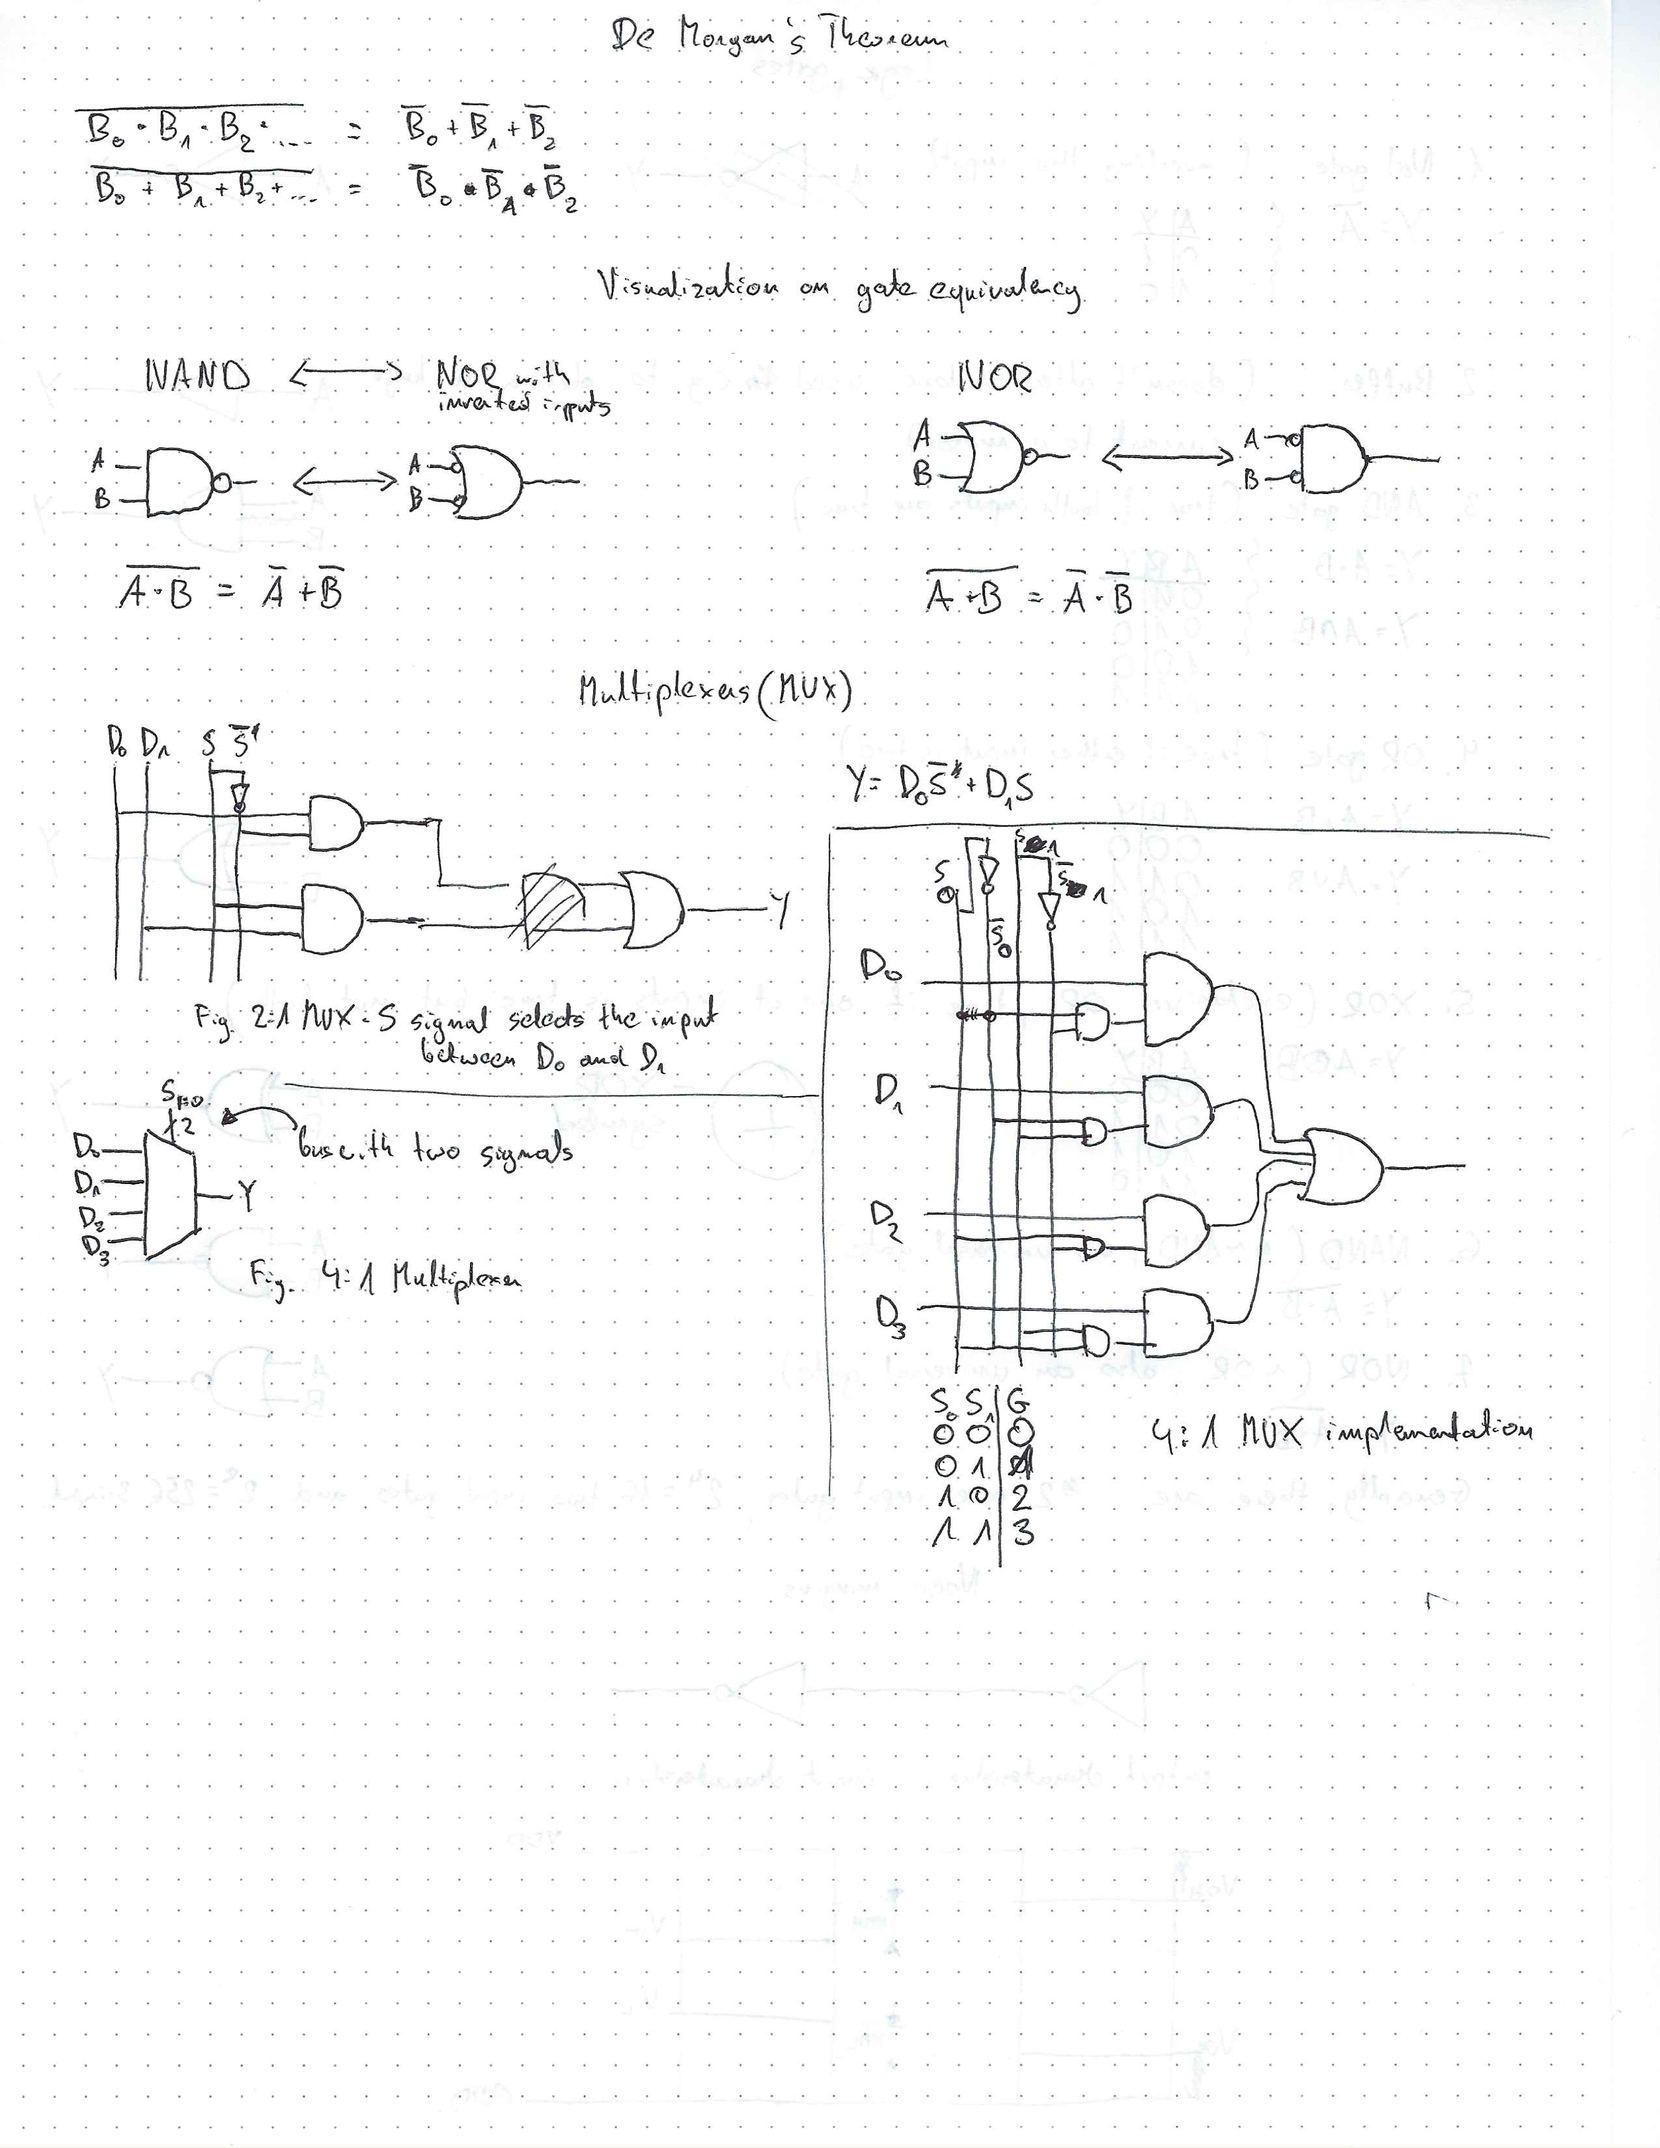
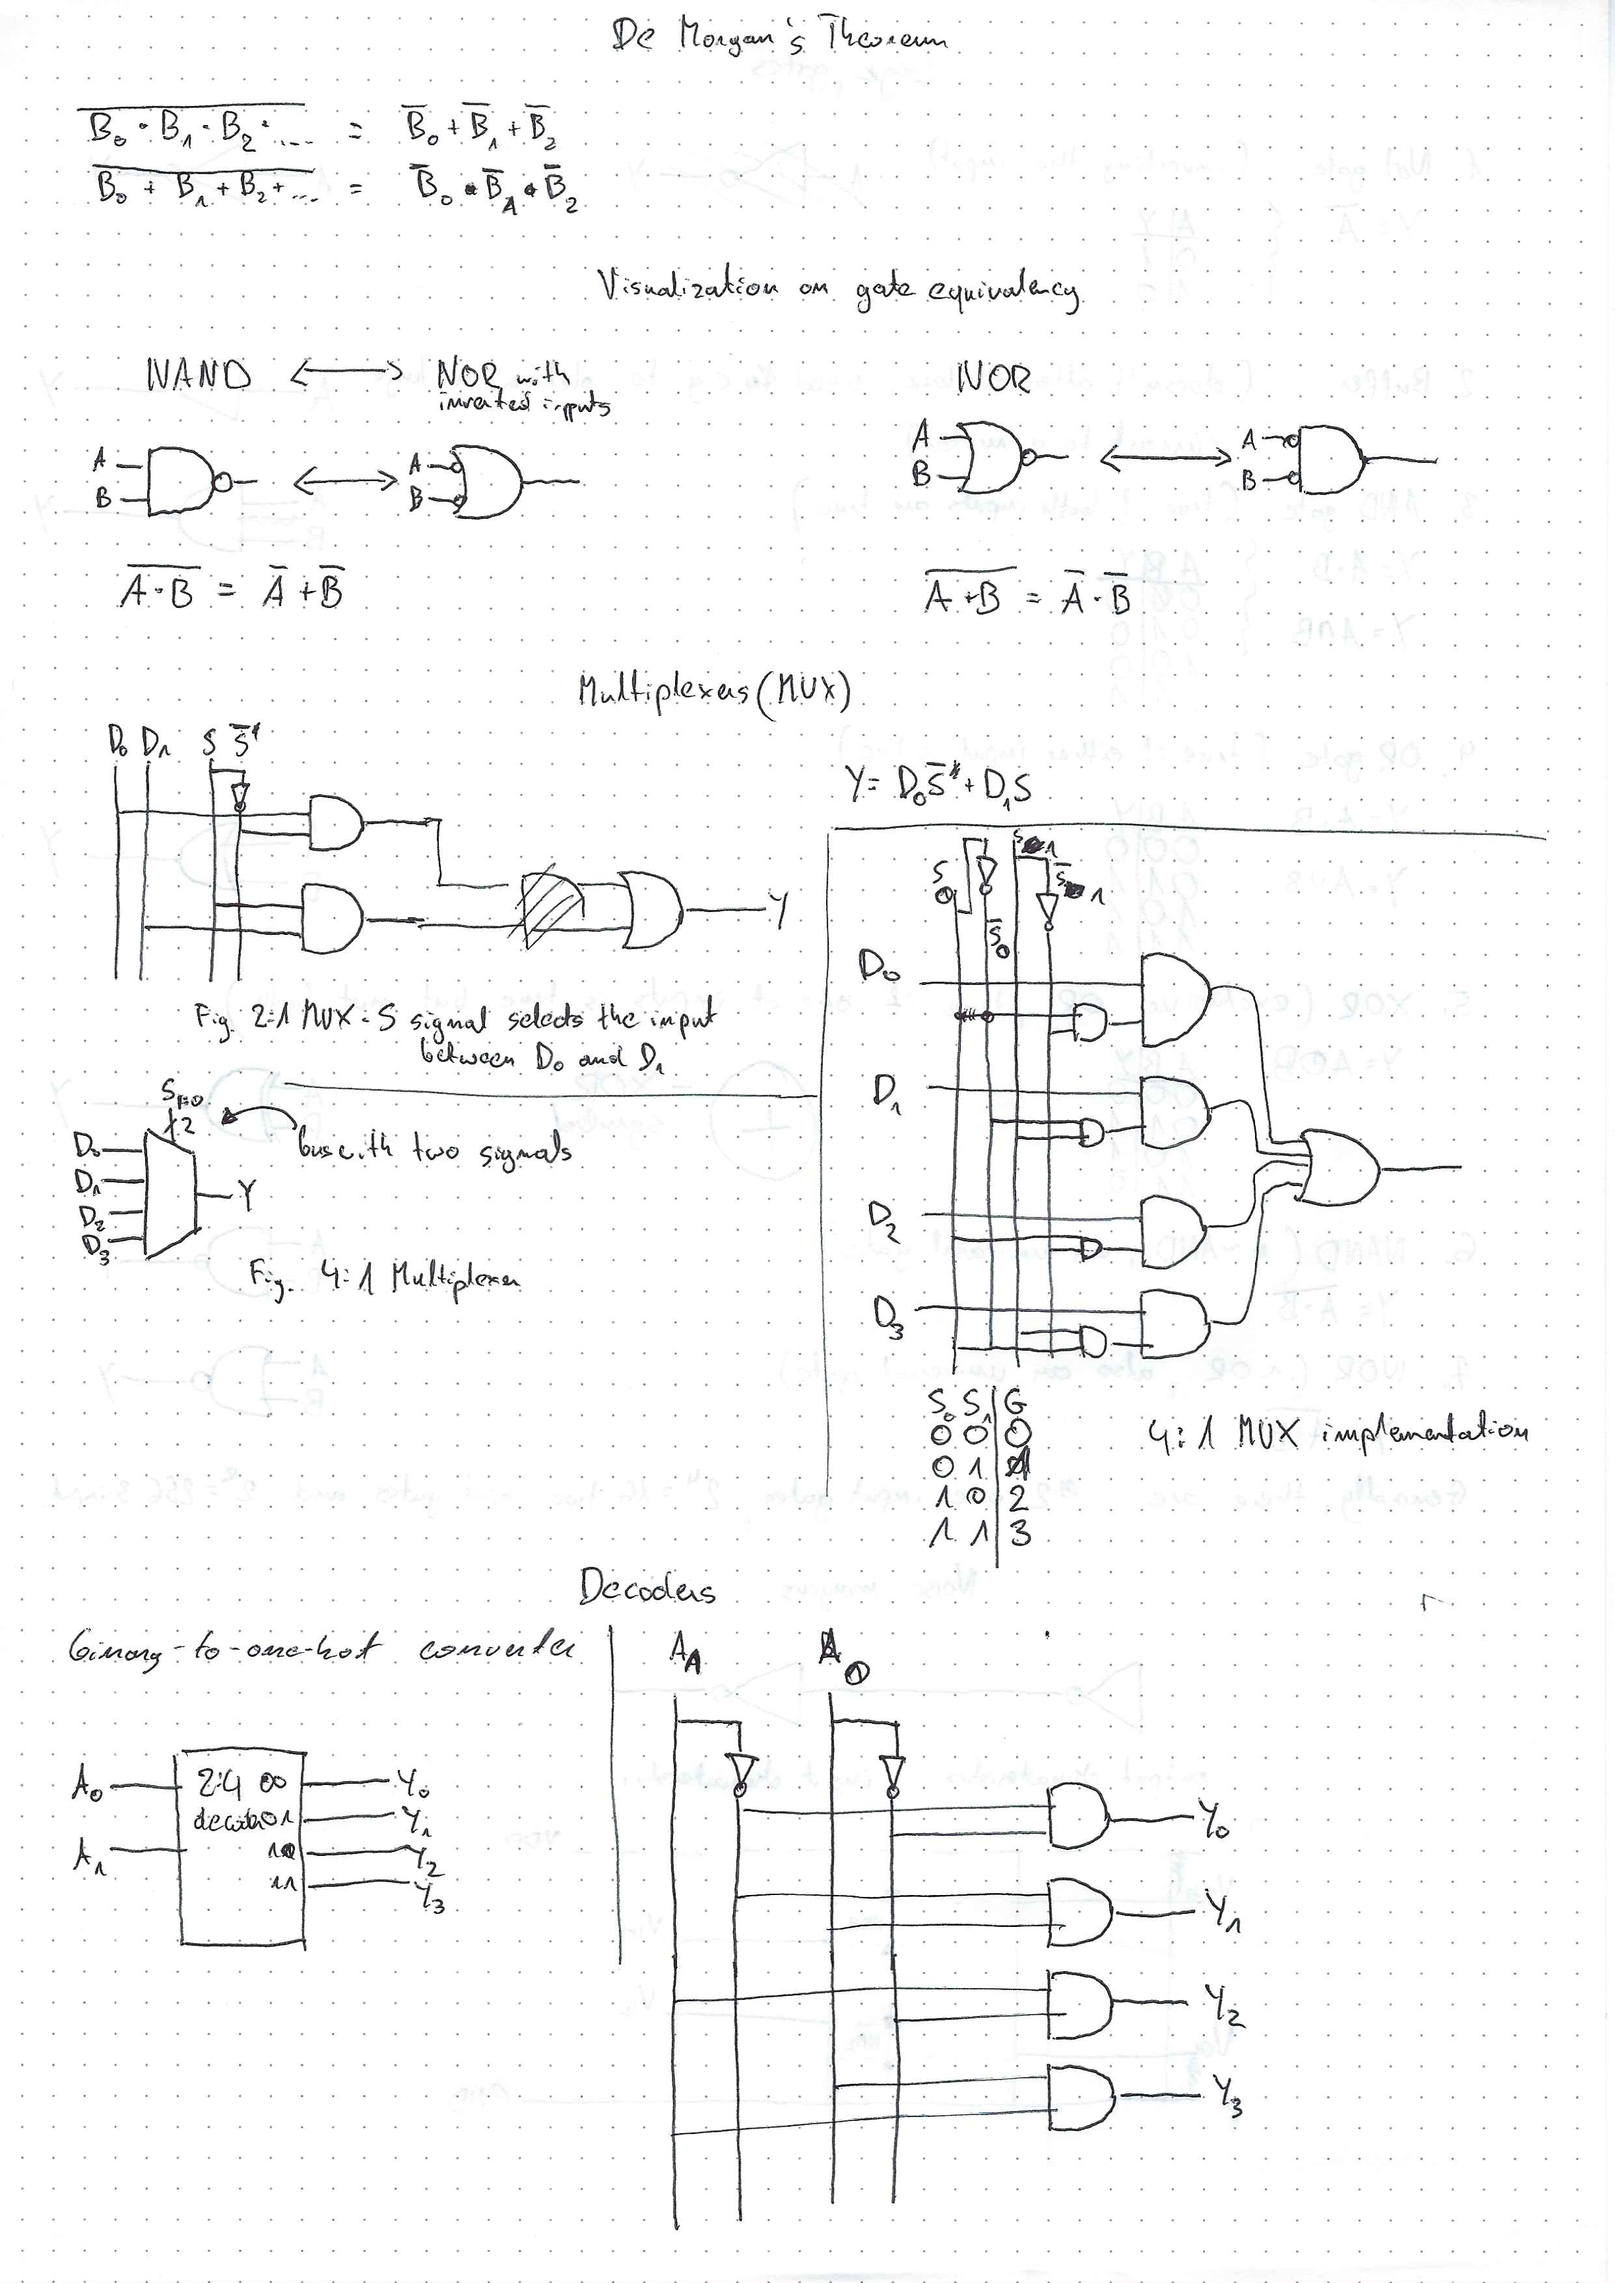
added notes about mux and decoders

diff --git a/3.0MultiplexersDecoders.md b/3.0MultiplexersDecoders.md
@@ -1,0 +1,38 @@
+# X Z symbols
+
+X - illegal value, e.g. when output is driven both to 0 and 1
+
+Z - floating value _(high impedance)_
+
+# Multiplexers 
+
+_multiplexer_ - a combinational circuit that allows to select from one of N inputs to the output using log2(N) select signals
+
+Many inputs to one output
+
+![](images/mux.jpeg)
+MUX symbol
+
+
+![](images/mux_imp.jpeg)
+Mux implementation with combinational logic
+
+
+You can implement any 2-input logic function on a 4:1 MUX. It's basically a physical ground truth lookup table.
+
+![](images/mux_as_and.png)
+
+# Decoders
+__decoder__ - has N inputes and 2^N outputs.
+
+IN: binary
+
+OUT: one-hot
+
+![](images/decoder_sym.jpeg)
+decoder symbol
+
+![](images/decoder_imp.jpeg)
+2:4 decoder implementation
+
+_notice how decoder is a part of multiplexer_
